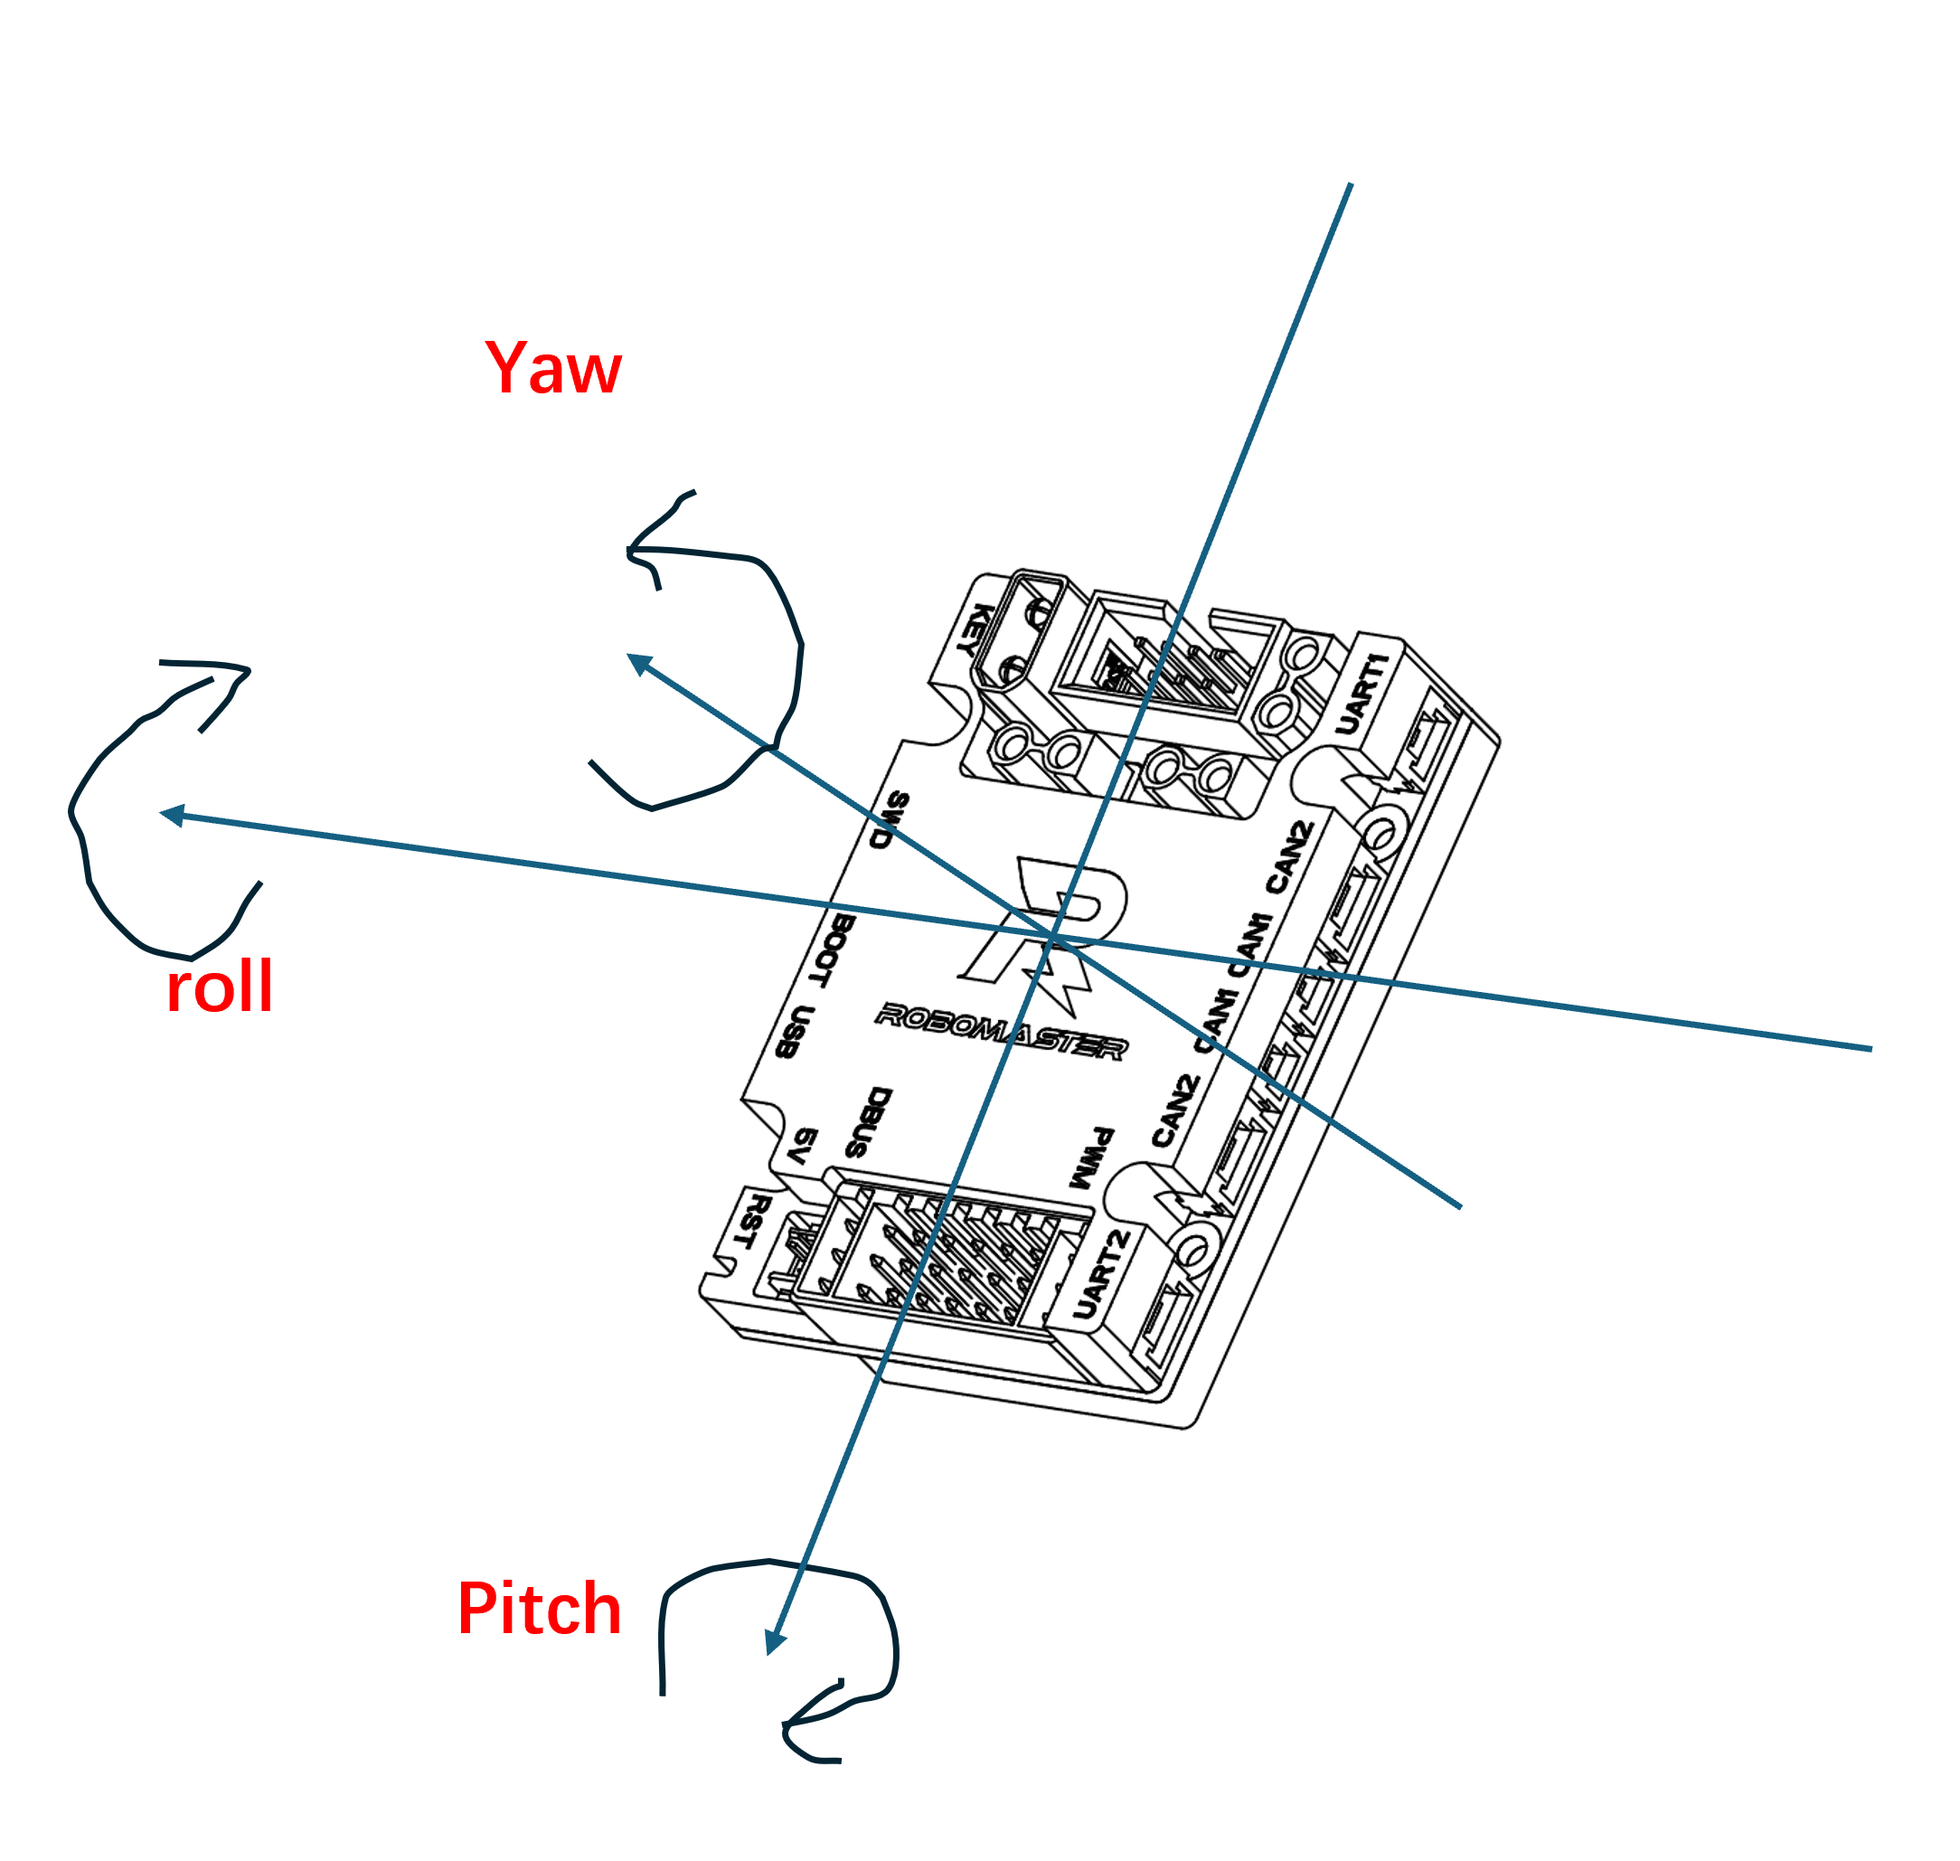
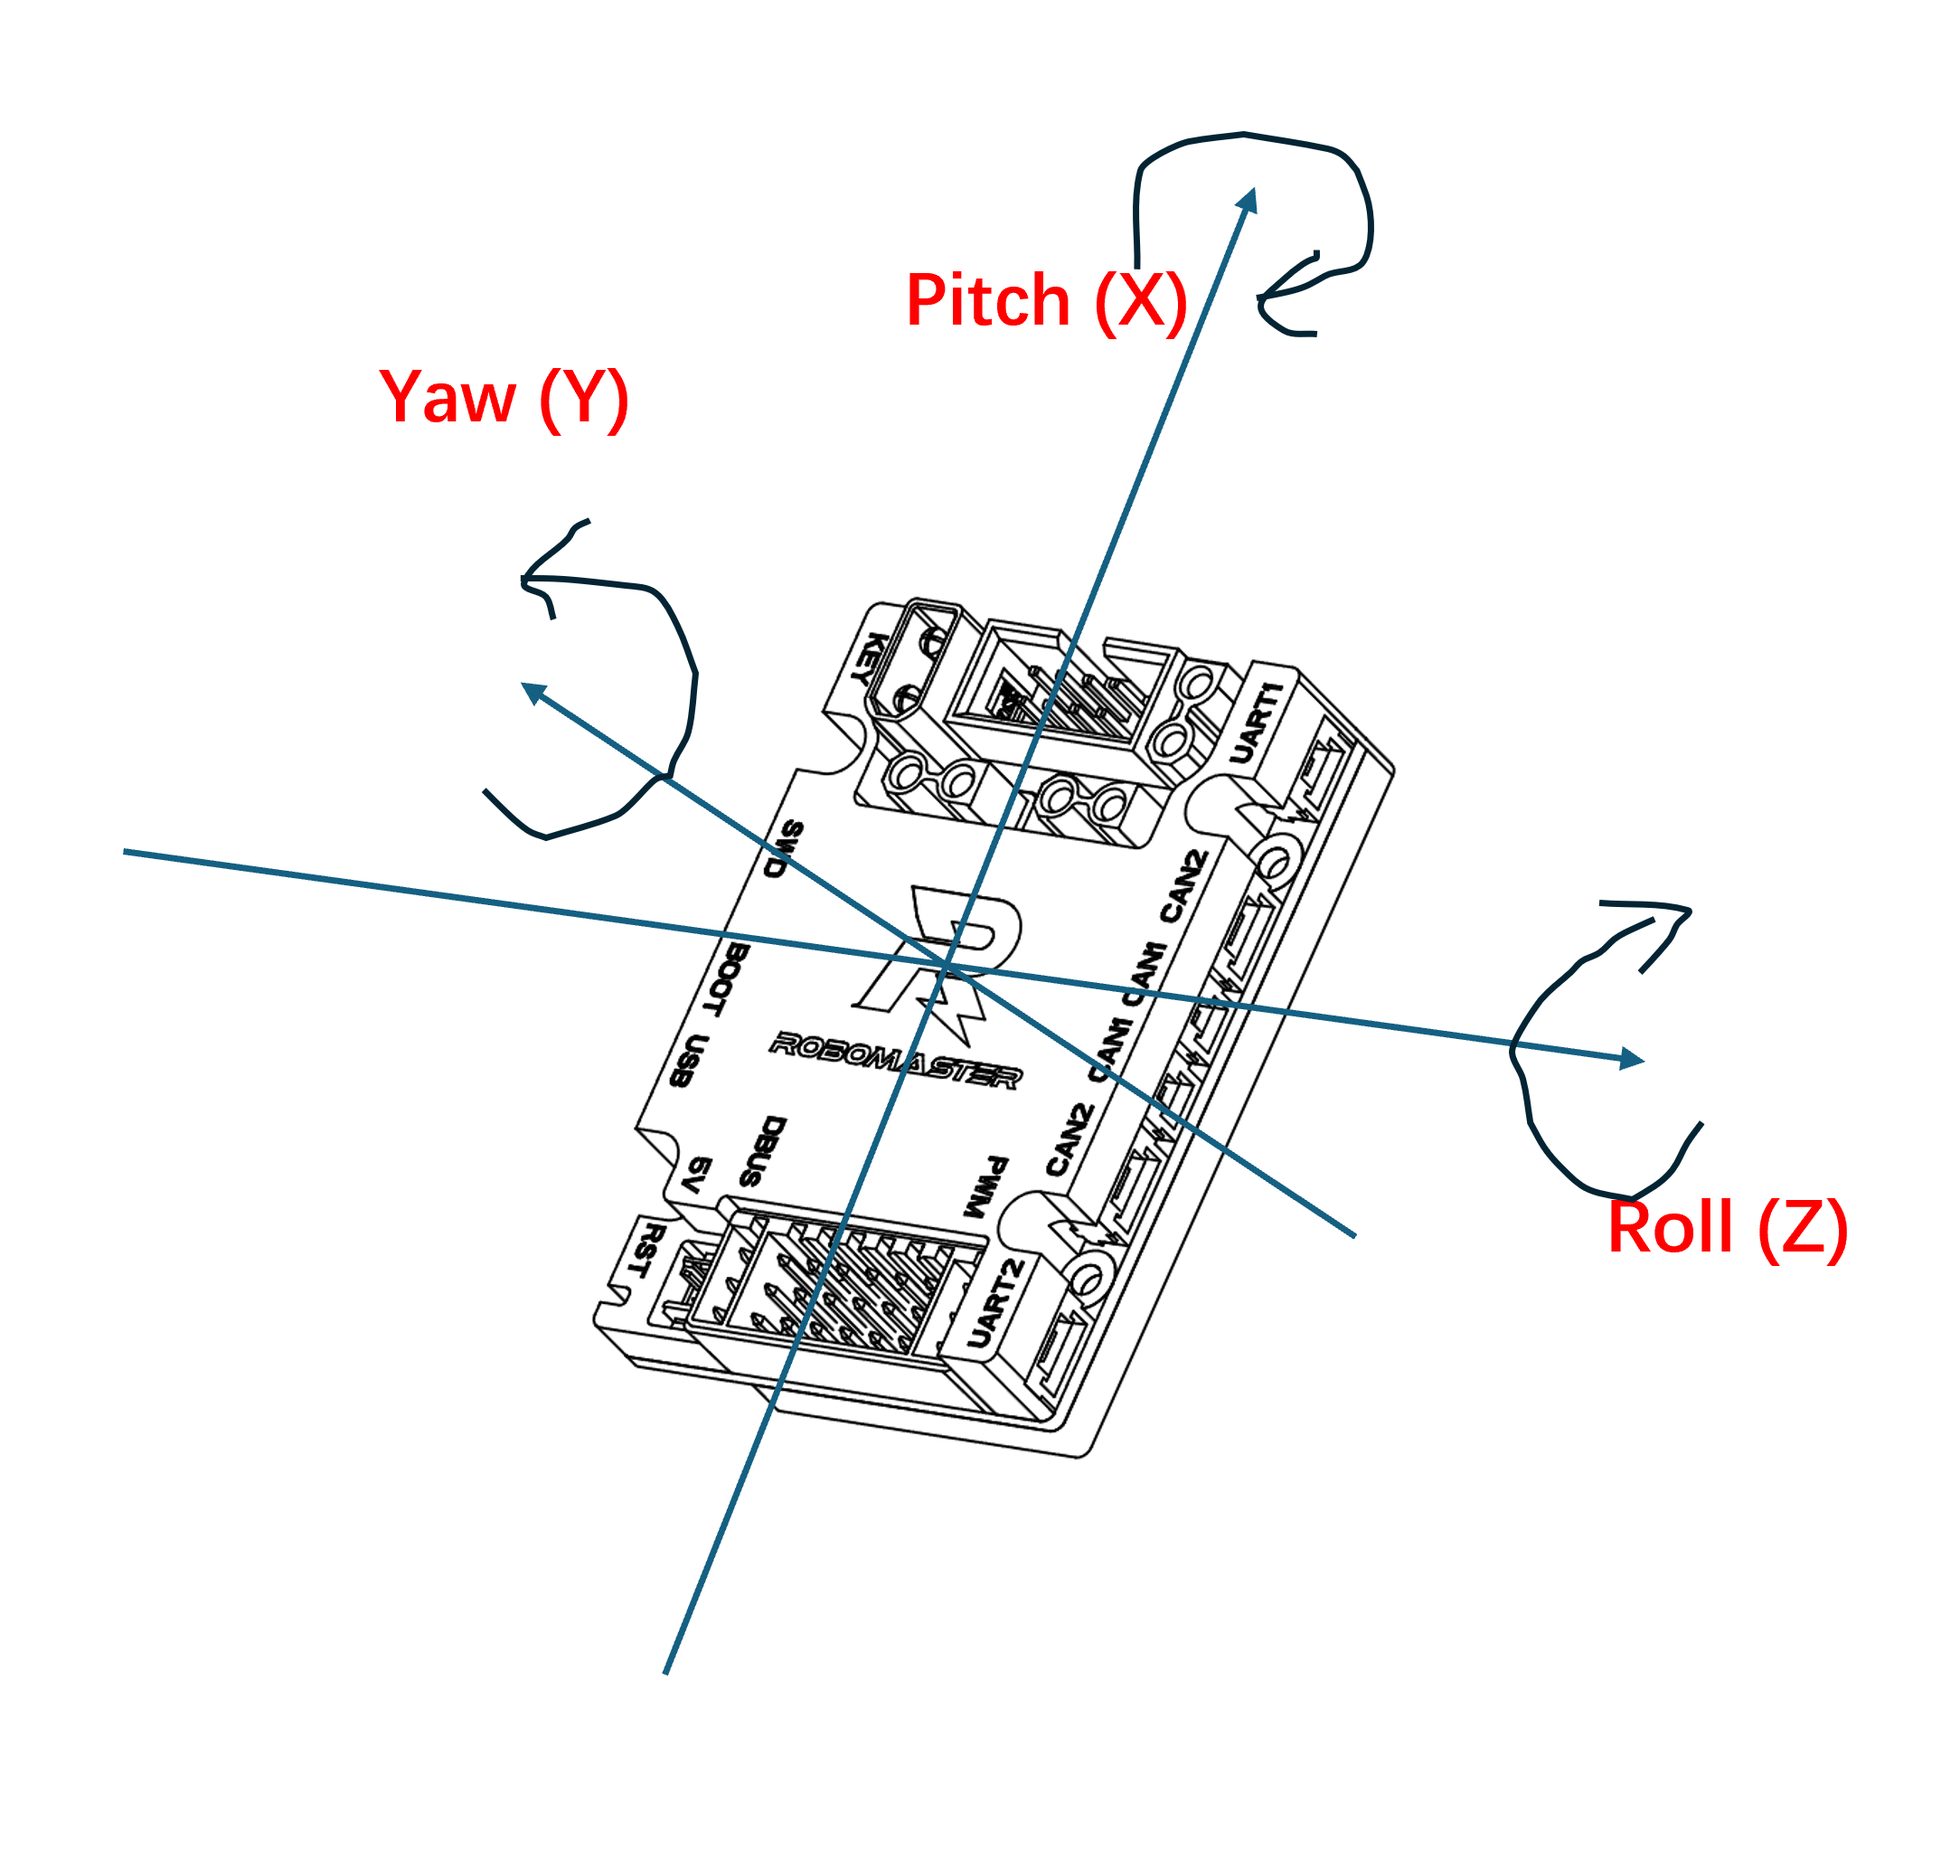
完善ins_task.md的安装误差参数调参指导。

diff --git a/Modules/imu/ins_task.md b/Modules/imu/ins_task.md
@@ -35,7 +35,7 @@ float Roll;        // Roll轴安装偏角修正 单位: °
 
 flag给1，表示参数更新。
 scale为三轴标度因数修正系数，默认为1.0f，表示一比一。scale增加，表示传感器的测量结果比真值要大。
-Yaw、Pitch、Roll为三轴安装偏角修正系数，默认为0.0f，表示无安装偏角。如果存在安装偏角，比如需要按照下图yaw、roll、pitch方向，设置坐标系旋转角度。例如下图需要按yaw轴正向旋转90°，则Yaw设置为90.0f。下图中就是roll转到pitch位置。
+Yaw、Pitch、Roll为三轴安装偏角修正系数，默认为0.0f，表示无安装偏角。如果存在安装偏角，比如需要按照下图yaw、roll、pitch方向，设置坐标系旋转角度。例如板子的坐标系需要按yaw轴正向旋转90°才是车体坐标系，则Yaw设置为90.0f。下图中就是roll转到pitch位置。
 ![imu三轴旋转正方向.png](imu%E4%B8%89%E8%BD%B4%E6%97%8B%E8%BD%AC%E6%AD%A3%E6%96%B9%E5%90%91.png)
 
 IMU_Init_Config_s* imu_init_config写在gimbal.h或者chassis.h里。
